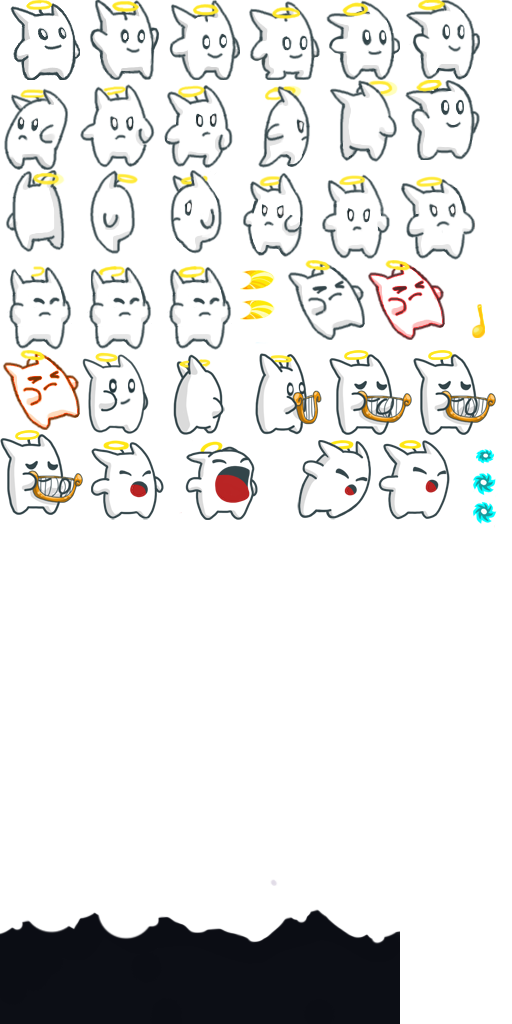
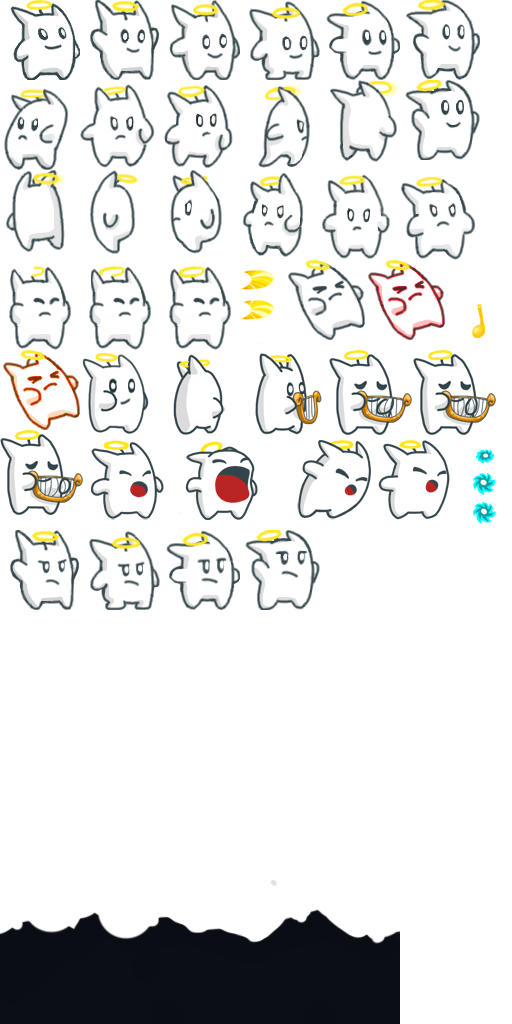
New Hero Sprite sheet

Changed region(s): [[0.0, 0.5, 0.625, 0.5938]]

diff --git a/src/com/slimejumper/Assets.java b/src/com/slimejumper/Assets.java
@@ -36,7 +36,7 @@ public class Assets {
 	 * Hero Atlas
 	 */
 	
-	public static Texture hero;
+	public static Texture hero_full_HP;
 	public static TextureRegion heroRegion;
 	public static TextureRegion hero_jump_old;
 	public static TextureRegion hero_fall;
@@ -206,15 +206,15 @@ public class Assets {
 		 * Hero
 		 */
 		
-		hero = new Texture(game, "Hero.png");
-		heroRegion = new TextureRegion(hero, 0, 0, 80, 80);
-		hero_jump_old = new TextureRegion(hero, 400, 80, 80, 80);
+		hero_full_HP = new Texture(game, "Hero.png");
+		heroRegion = new TextureRegion(hero_full_HP, 0, 0, 80, 80);
+		hero_jump_old = new TextureRegion(hero_full_HP, 400, 80, 80, 80);
 		
-		hero_fall = new TextureRegion(hero, 80, 0, 80, 80);
-		heroLandFrame1 = new TextureRegion(hero, 160, 0, 80, 80);
-		heroLandFrame2 = new TextureRegion(hero, 240, 0, 80, 80);
-		heroLandFrame3 = new TextureRegion(hero, 320, 0, 80, 80);
-		heroLandFrame4 = new TextureRegion(hero, 400, 0, 80, 80);
+		hero_fall = new TextureRegion(hero_full_HP, 80, 0, 80, 80);
+		heroLandFrame1 = new TextureRegion(hero_full_HP, 160, 0, 80, 80);
+		heroLandFrame2 = new TextureRegion(hero_full_HP, 240, 0, 80, 80);
+		heroLandFrame3 = new TextureRegion(hero_full_HP, 320, 0, 80, 80);
+		heroLandFrame4 = new TextureRegion(hero_full_HP, 400, 0, 80, 80);
 		hero_land = new Animation(HERO_LAND_FRAME_DURATION,
 				heroLandFrame1,
 				heroLandFrame2,
@@ -222,9 +222,9 @@ public class Assets {
 				heroLandFrame4
 				);
 		
-		heroJumpFrame1 = new TextureRegion(hero, 240, 0, 80, 80);
-		heroJumpFrame2 = new TextureRegion(hero, 320, 0, 80, 80);
-		heroJumpFrame3 = new TextureRegion(hero, 400, 80, 80, 80);
+		heroJumpFrame1 = new TextureRegion(hero_full_HP, 240, 0, 80, 80);
+		heroJumpFrame2 = new TextureRegion(hero_full_HP, 320, 0, 80, 80);
+		heroJumpFrame3 = new TextureRegion(hero_full_HP, 400, 80, 80, 80);
 		
 		hero_jump = new Animation(DEFAULT_FRAME_DURATION,
 				heroJumpFrame1,
@@ -232,20 +232,20 @@ public class Assets {
 				heroJumpFrame3
 				);
 		
-		heroHaloAttack1Frame1 = new TextureRegion(hero, 0, 80, 80, 90);
-		heroHaloAttack1Frame2 = new TextureRegion(hero, 80, 80, 80, 90);
-		heroHaloAttack1Frame3 = new TextureRegion(hero, 160, 80, 80, 90);
-		heroHaloAttack1Frame4 = new TextureRegion(hero, 240, 80, 80, 90);
-		heroHaloAttack1Frame5 = new TextureRegion(hero, 320, 80, 80, 90);
-		heroHaloAttack1Frame6 = new TextureRegion(hero, 0, 170, 80, 90);
-		heroHaloAttack1Frame7 = new TextureRegion(hero, 80, 170, 80, 90);
-		heroHaloAttack1Frame8 = new TextureRegion(hero, 160, 170, 80, 90);
-		heroHaloAttack1Frame9 = new TextureRegion(hero, 240, 170, 80, 90);
-		heroHaloAttack1Frame10 = new TextureRegion(hero, 320, 170, 80, 90);
-		heroHaloAttack1Frame11 = new TextureRegion(hero, 400, 170, 80, 90);
-		heroHaloAttack1Frame12 = new TextureRegion(hero, 0, 260, 80, 90);
-		heroHaloAttack1Frame13 = new TextureRegion(hero, 80, 260, 80, 90);
-		herohaloattack1frame14 = new TextureRegion(hero, 160, 260, 80, 90);
+		heroHaloAttack1Frame1 = new TextureRegion(hero_full_HP, 0, 80, 80, 90);
+		heroHaloAttack1Frame2 = new TextureRegion(hero_full_HP, 80, 80, 80, 90);
+		heroHaloAttack1Frame3 = new TextureRegion(hero_full_HP, 160, 80, 80, 90);
+		heroHaloAttack1Frame4 = new TextureRegion(hero_full_HP, 240, 80, 80, 90);
+		heroHaloAttack1Frame5 = new TextureRegion(hero_full_HP, 320, 80, 80, 90);
+		heroHaloAttack1Frame6 = new TextureRegion(hero_full_HP, 0, 170, 80, 90);
+		heroHaloAttack1Frame7 = new TextureRegion(hero_full_HP, 80, 170, 80, 90);
+		heroHaloAttack1Frame8 = new TextureRegion(hero_full_HP, 160, 170, 80, 90);
+		heroHaloAttack1Frame9 = new TextureRegion(hero_full_HP, 240, 170, 80, 90);
+		heroHaloAttack1Frame10 = new TextureRegion(hero_full_HP, 320, 170, 80, 90);
+		heroHaloAttack1Frame11 = new TextureRegion(hero_full_HP, 400, 170, 80, 90);
+		heroHaloAttack1Frame12 = new TextureRegion(hero_full_HP, 0, 260, 80, 90);
+		heroHaloAttack1Frame13 = new TextureRegion(hero_full_HP, 80, 260, 80, 90);
+		herohaloattack1frame14 = new TextureRegion(hero_full_HP, 160, 260, 80, 90);
 		hero_halo_attack_1 = new Animation(HERO_HALO_ATTACK_1_FRAME_DURATION,
 				heroHaloAttack1Frame1,
 				heroHaloAttack1Frame2,
@@ -262,19 +262,19 @@ public class Assets {
 				heroHaloAttack1Frame13,
 				herohaloattack1frame14
 				);
-		haloAttackFrame1 = new TextureRegion(hero, 240, 270, 35, 20);
-		haloAttackFrame2 = new TextureRegion(hero, 240, 300, 35, 20);
+		haloAttackFrame1 = new TextureRegion(hero_full_HP, 240, 270, 35, 20);
+		haloAttackFrame2 = new TextureRegion(hero_full_HP, 240, 300, 35, 20);
 		halo_attack = new Animation(HALO_ATTACK_FRAME_DURATION,
 				haloAttackFrame1,
 				haloAttackFrame2
 				);
 		//1 2 3 4 5 6 5 4 5 6 5 4 5 6 5 4 5 6
-		heroLyreAttack1Frame1 = new TextureRegion(hero, 80, 350, 83, 85);
-		heroLyreAttack1Frame2 = new TextureRegion(hero, 163, 350, 83, 85);
-		heroLyreAttack1Frame3 = new TextureRegion(hero, 246, 350, 83, 85);
-		heroLyreAttack1Frame4 = new TextureRegion(hero, 329, 350, 83, 85);
-		heroLyreAttack1Frame5 = new TextureRegion(hero, 412, 350, 83, 85);
-		heroLyreAttack1Frame6 = new TextureRegion(hero, 0, 430, 83, 85);
+		heroLyreAttack1Frame1 = new TextureRegion(hero_full_HP, 80, 350, 83, 85);
+		heroLyreAttack1Frame2 = new TextureRegion(hero_full_HP, 163, 350, 83, 85);
+		heroLyreAttack1Frame3 = new TextureRegion(hero_full_HP, 246, 350, 83, 85);
+		heroLyreAttack1Frame4 = new TextureRegion(hero_full_HP, 329, 350, 83, 85);
+		heroLyreAttack1Frame5 = new TextureRegion(hero_full_HP, 412, 350, 83, 85);
+		heroLyreAttack1Frame6 = new TextureRegion(hero_full_HP, 0, 430, 83, 85);
 		hero_lyre_attack_1 = new Animation(HERO_LYRE_ATTACK_FRAME_DURATION,
 				heroLyreAttack1Frame1,
 				heroLyreAttack1Frame2,
@@ -297,32 +297,32 @@ public class Assets {
 				);
 		
 		// Foreground is on the Hero Atlas
-		foregroundRegion = new TextureRegion(hero, 0, 909, 400, 115);
+		foregroundRegion = new TextureRegion(hero_full_HP, 0, 909, 400, 115);
 		
-		musicNoteFrame1 = new TextureRegion(hero, 472, 304, 13, 34);
+		musicNoteFrame1 = new TextureRegion(hero_full_HP, 472, 304, 13, 34);
 		
-		heroSpiralAttack1Frame1 = new TextureRegion(hero, 90, 440, 91, 80);
-		heroSpiralAttack1Frame2 = new TextureRegion(hero, 185, 440, 91, 80);
-		heroSpiralAttack1Frame3 = new TextureRegion(hero, 280, 440, 91, 80);
-		heroSpiralAttack1Frame4 = new TextureRegion(hero, 375, 440, 91, 80);
+		heroSpiralAttack1Frame1 = new TextureRegion(hero_full_HP, 90, 440, 91, 80);
+		heroSpiralAttack1Frame2 = new TextureRegion(hero_full_HP, 185, 440, 91, 80);
+		heroSpiralAttack1Frame3 = new TextureRegion(hero_full_HP, 280, 440, 91, 80);
+		heroSpiralAttack1Frame4 = new TextureRegion(hero_full_HP, 375, 440, 91, 80);
 		hero_spiral_attack_1 = new Animation(HERO_SPIRAL_ATTACK_1_FRAME_DURATION,
 				heroSpiralAttack1Frame1,
 				heroSpiralAttack1Frame2,
 				heroSpiralAttack1Frame3,
 				heroSpiralAttack1Frame4);
 		
-		spiralAttackFrame1 = new TextureRegion(hero, 470, 440, 28, 28);
-		spiralAttackFrame2 = new TextureRegion(hero, 470, 470, 28, 28);
-		spiralAttackFrame3 = new TextureRegion(hero, 470, 500, 28, 28);
+		spiralAttackFrame1 = new TextureRegion(hero_full_HP, 470, 440, 28, 28);
+		spiralAttackFrame2 = new TextureRegion(hero_full_HP, 470, 470, 28, 28);
+		spiralAttackFrame3 = new TextureRegion(hero_full_HP, 470, 500, 28, 28);
 		spiral_attack = new Animation(SPIRAL_ATTACK_FRAME_DURATION,
 				spiralAttackFrame1,
 				spiralAttackFrame2,
 				spiralAttackFrame3,
 				spiralAttackFrame2);
 		
-		heroCollidedFrame1 = new TextureRegion(hero, 285, 260, 80, 80);
-		heroCollidedFrame2 = new TextureRegion(hero, 365, 260, 80, 80);
-		heroCollidedFrame3 = new TextureRegion(hero, 0, 350, 80, 80);
+		heroCollidedFrame1 = new TextureRegion(hero_full_HP, 285, 260, 80, 80);
+		heroCollidedFrame2 = new TextureRegion(hero_full_HP, 365, 260, 80, 80);
+		heroCollidedFrame3 = new TextureRegion(hero_full_HP, 0, 350, 80, 80);
 		hero_collided = new Animation(HERO_COLLIDED_FRAME_DURATION,
 				heroCollidedFrame1,
 				heroCollidedFrame2,
@@ -503,7 +503,7 @@ public class Assets {
 	
 	public static void reload(){
 		game_sprites.reload();
-		hero.reload();
+		hero_full_HP.reload();
 		shadow_hero.reload();
 		background_treetop_valley.reload();
 		background_clouds.reload();

diff --git a/src/com/slimejumper/world/Hero.java b/src/com/slimejumper/world/Hero.java
@@ -88,6 +88,8 @@ public class Hero extends DynamicGameObject{
 	public static final float HERO_LYRE_INVINCIBILITY_TIMER_LIMIT = 4.0f;
 	public float invincibility_timer;
 	public float invincibility_timer_limit;	
+	
+	public int health;
 
 	public Hero() {
 		super(HERO_START_X, HERO_START_Y, HERO_STANDARD_WIDTH, HERO_STANDARD_HEIGHT);
@@ -107,6 +109,15 @@ public class Hero extends DynamicGameObject{
 		state_timer = 0;
 		basic_attack_type = HERO_BASIC_HALO_ATTACK;
 		basic_attack_timer_limit = HERO_BASIC_HALO_ATTACK_TIMER;
+		
+		health = 5;
+	}
+	
+	public void reset(float x_coord, float y_coord){
+		position.set(x_coord, y_coord);
+		changeToJumpOrFallState();
+		health = 5;
+		
 	}
 	
 	public void update(float deltaTime){				
@@ -331,7 +342,7 @@ public class Hero extends DynamicGameObject{
 
 	public void adjustFaceDirection() {
 		if(state == HERO_STATE_COLLIDED ||
-			(state == HERO_STATE_BASIC_ATTACK && basic_attack_type == HERO_BASIC_HALO_ATTACK))
+			(state == HERO_STATE_BASIC_ATTACK && (basic_attack_type == HERO_BASIC_HALO_ATTACK || basic_attack_type == HERO_BASIC_SPIRAL_ATTACK)))
 			return;
 			
 		if(velocity.x > 0)

diff --git a/src/com/slimejumper/levels/TesterLevel.java b/src/com/slimejumper/levels/TesterLevel.java
@@ -32,7 +32,8 @@ public class TesterLevel extends Level{
 	public Background background_trees;
 	
 	public TesterLevel(WorldListener listener, Controller controller){
-		super(listener, controller, TESTER_LEVEL_WIDTH, TESTER_LEVEL_HEIGHT);		
+		super(listener, controller, TESTER_LEVEL_WIDTH, TESTER_LEVEL_HEIGHT);
+		hero.reset(3, 3);
 		background_trees = new Background(BACKGROUND_TREES_WIDTH, BACKGROUND_TREES_HEIGHT, TESTER_LEVEL_WIDTH, TESTER_LEVEL_HEIGHT);
 		
 		jellyfish_demon_test = new JellyfishDemon();

diff --git a/src/com/slimejumper/levels/TreetopValleyLevel.java b/src/com/slimejumper/levels/TreetopValleyLevel.java
@@ -33,7 +33,7 @@ public class TreetopValleyLevel extends Level{
 	
 	public TreetopValleyLevel(WorldListener listener, Controller controller){
 		super(listener, controller, TREETOP_VALLEY_WIDTH, TREETOP_VALLEY_HEIGHT);
-		hero.resetPositionCenter(3, 3);
+		hero.reset(3, 3);
 		
 		treetop_valley_factory = new TreetopValleyFactory();
 		background_trees = new Background(BACKGROUND_TREES_WIDTH, BACKGROUND_TREES_HEIGHT, TREETOP_VALLEY_WIDTH, TREETOP_VALLEY_HEIGHT);//Level.WORLD_DEFAULT_HEIGHT);

diff --git a/src/com/slimejumper/levels/CaveLevel.java b/src/com/slimejumper/levels/CaveLevel.java
@@ -32,7 +32,7 @@ public class CaveLevel extends Level{
 
 	public CaveLevel(WorldListener listener, Controller controller) {
 		super(listener, controller);
-	
+		hero.reset(3, 3);
 		obstacle_generator_manager = new ObstacleGeneratorManager(this);
 		cave_background = new Background(BACKGROUND_CAVE_BACK_LAYER_WIDTH, 0, WORLD_DEFAULT_WIDTH, Level.WORLD_DEFAULT_HEIGHT);
 		

diff --git a/src/com/slimejumper/levels/MenuLevel.java b/src/com/slimejumper/levels/MenuLevel.java
@@ -18,7 +18,7 @@ public class MenuLevel extends Level{
 	
 	public MenuLevel(WorldListener listener, Controller controller){
 		super(listener, controller);
-		
+		hero.reset(3, 3);
 		cloud_background = new Background(BACKGROUND_CLOUDS_WIDTH, 0, WORLD_DEFAULT_WIDTH, WORLD_DEFAULT_HEIGHT);
 		
 		initializeGreekPlatforms();

diff --git a/src/com/slimejumper/renderer/CaveRenderer.java b/src/com/slimejumper/renderer/CaveRenderer.java
@@ -51,7 +51,7 @@ public class CaveRenderer extends BaseRenderer{
 	}
 	
 	private void renderForeground(){
-		batcher.beginBatch(Assets.hero);
+		batcher.beginBatch(Assets.hero_full_HP);
 		
 		float FOREGROUND_WIDTH = 5;
 		float FOREGROUND_HEIGHT = 1.4375f;		

diff --git a/src/com/slimejumper/renderer/BaseRenderer.java b/src/com/slimejumper/renderer/BaseRenderer.java
@@ -135,7 +135,7 @@ public abstract class BaseRenderer {
 	}
 
 	protected void renderHero(Hero hero) {
-		batcher.beginBatch(Assets.hero);
+		batcher.beginBatch(Assets.hero_full_HP);
 		
 		renderHeroState(hero);
 		renderHaloAttacks(hero);
